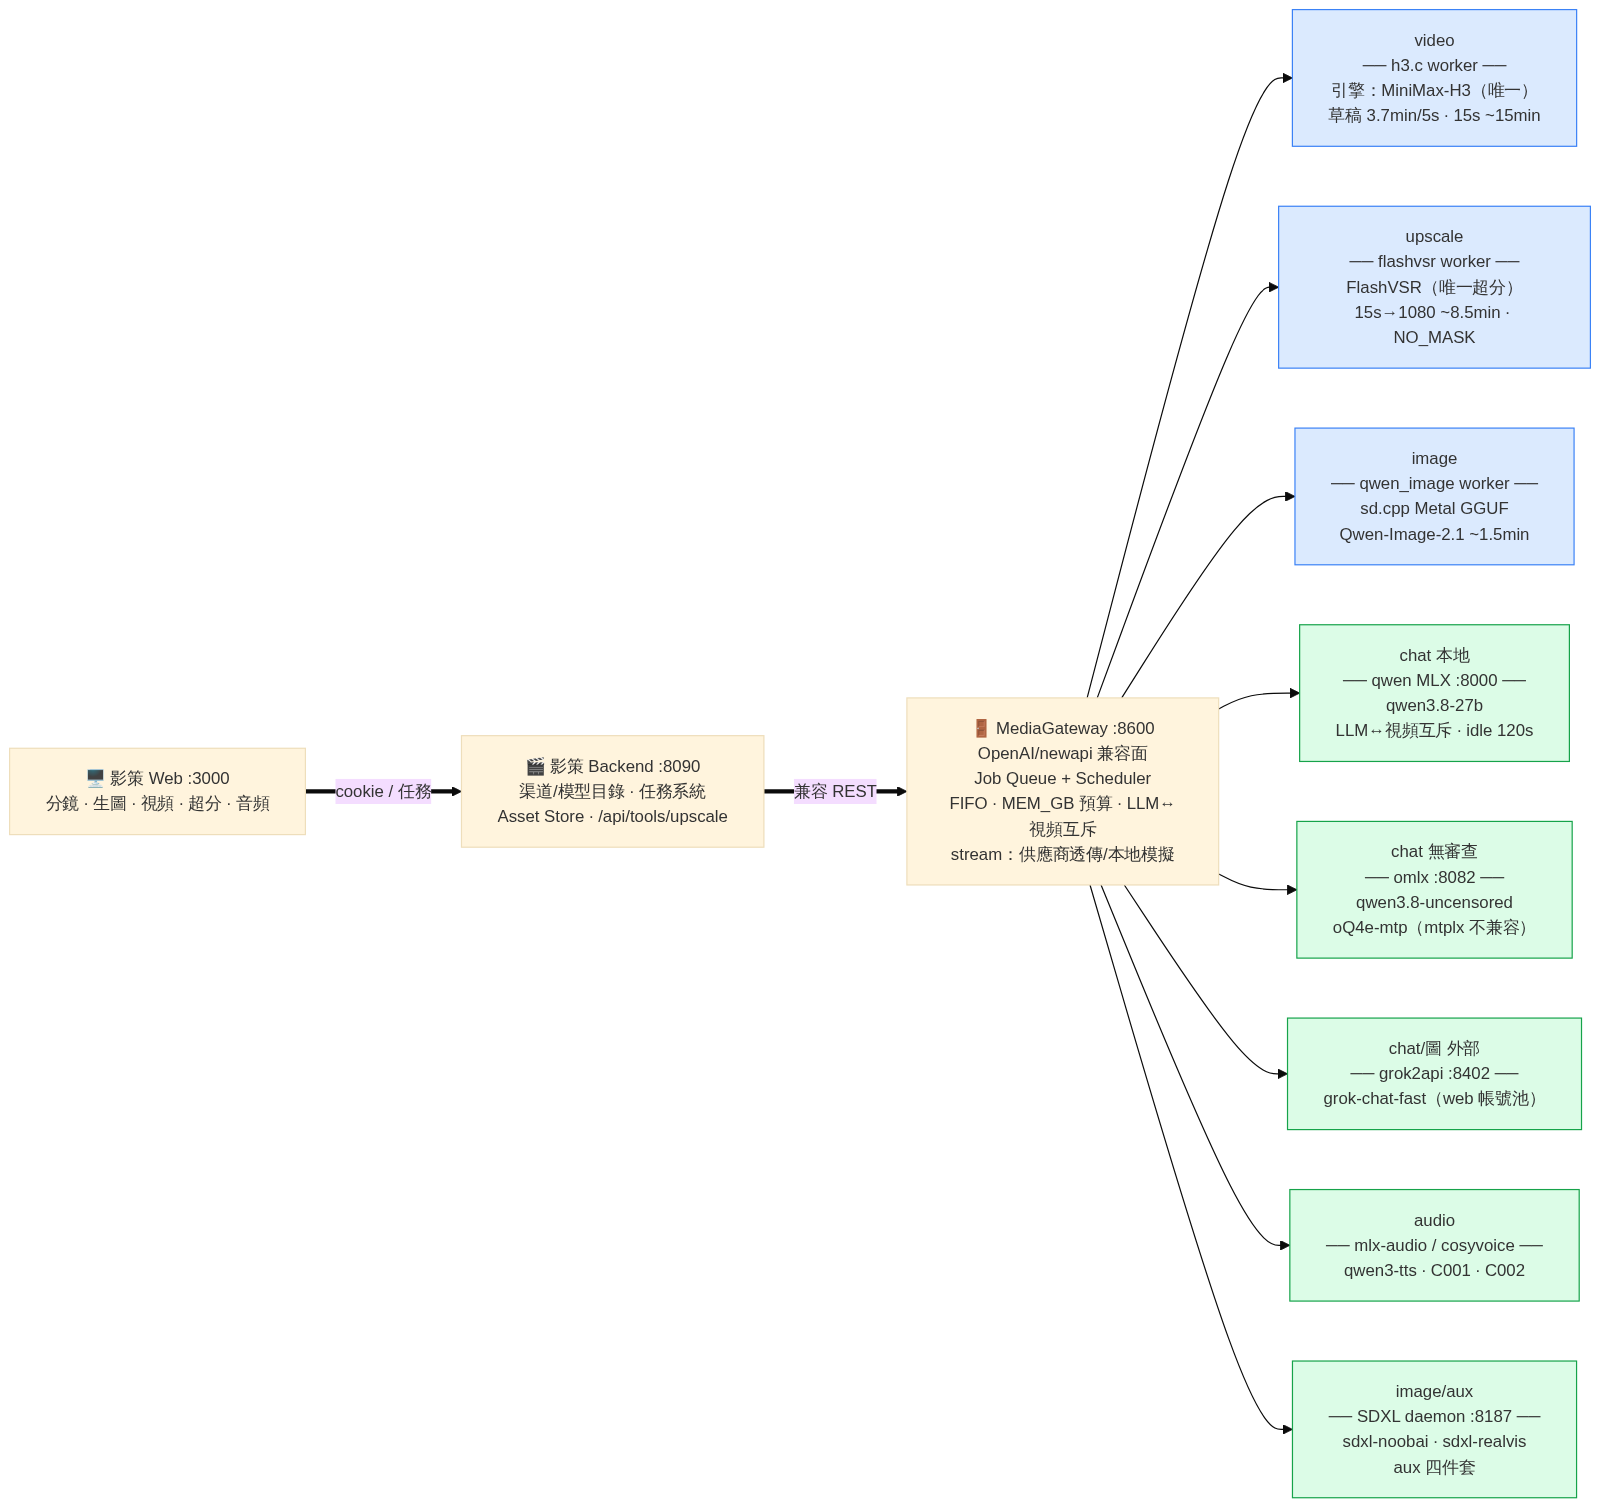
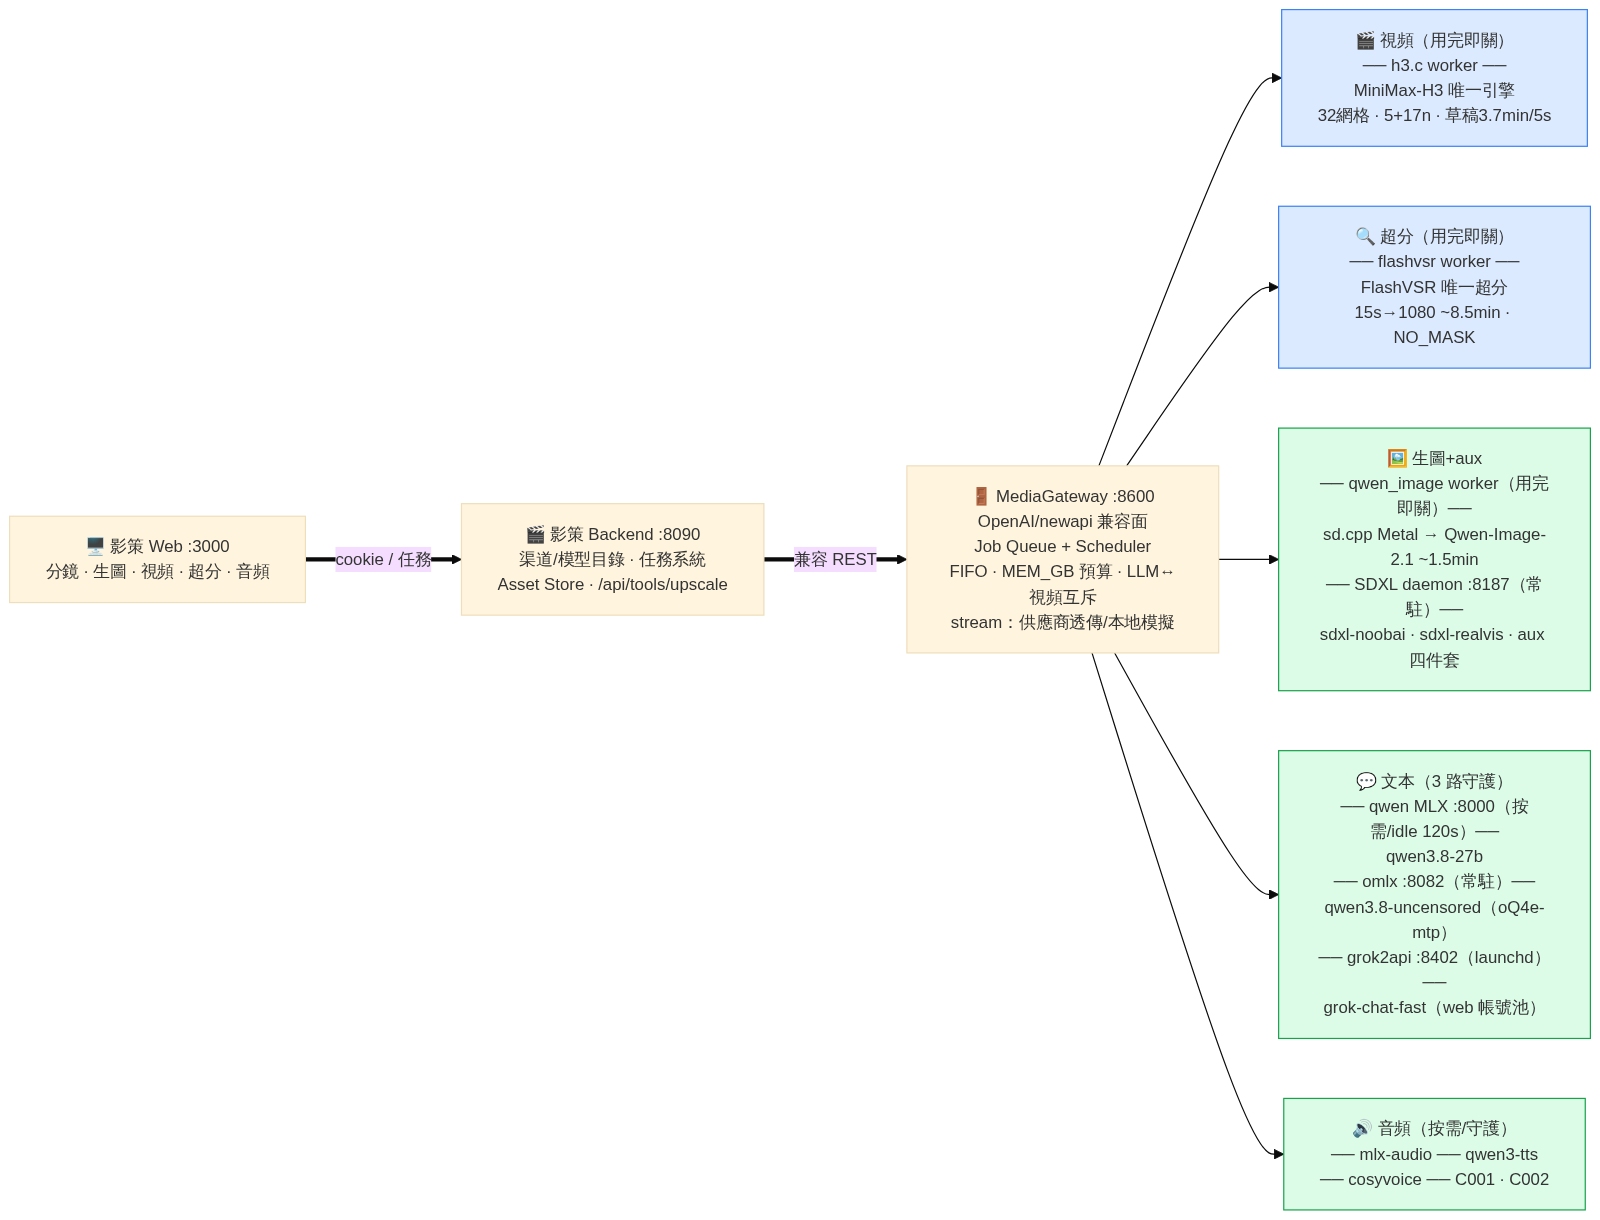
docs: 架構圖按能力域合併（視頻/超分/生圖+aux/文本3路/音頻）

Changed region(s): [[0.0, 0.0, 1.0, 0.9967], [0.7188, 0.7164, 0.75, 0.7475]]

diff --git a/docs/architecture.md b/docs/architecture.md
@@ -1,7 +1,7 @@
 # 影策系統架構（2026-09-28）
 
-> 按 Worker 分流：畫布 → 影策 → Gateway（兼容面 → Queue）→ 7 個 Worker → 各自的引擎/模型。
-> qwen3.6-27b 已刪除；iris-image 已停用（被 qwen-image 頂替）；chatgpt2api 停用待帳號。
+> 按功能合併：畫布 → 影策 → Gateway → 5 大能力域，每域列舉 worker/守護與模型。
+> 已棄用：qwen3.6-27b（刪除）、iris-image（停用）、chatgpt2api（停用待帳號）、SeedVR2/LTX（刪除）。
 
 ```mermaid
 %%{init:{"theme":"base","themeVariables":{"fontSize":"14px"}}}%%
@@ -10,24 +10,23 @@ flowchart LR
     Y["🎬 影策 Backend :8090<br/>渠道/模型目錄 · 任務系統<br/>Asset Store · /api/tools/upscale"]
     GW["🚪 MediaGateway :8600<br/>OpenAI/newapi 兼容面<br/>Job Queue + Scheduler<br/>FIFO · MEM_GB 預算 · LLM↔視頻互斥<br/>stream：供應商透傳/本地模擬"]
 
-    V["video<br/>── h3.c worker ──<br/>引擎：MiniMax-H3（唯一）<br/>草稿 3.7min/5s · 15s ~15min"]
-    U["upscale<br/>── flashvsr worker ──<br/>FlashVSR（唯一超分）<br/>15s→1080 ~8.5min · NO_MASK"]
-    I["image<br/>── qwen_image worker ──<br/>sd.cpp Metal GGUF<br/>Qwen-Image-2.1 ~1.5min"]
-    C["chat 本地<br/>── qwen MLX :8000 ──<br/>qwen3.8-27b<br/>LLM↔視頻互斥 · idle 120s"]
-    CU["chat 無審查<br/>── omlx :8082 ──<br/>qwen3.8-uncensored<br/>oQ4e-mtp（mtplx 不兼容）"]
-    GK["chat/圖 外部<br/>── grok2api :8402 ──<br/>grok-chat-fast（web 帳號池）"]
-    A["audio<br/>── mlx-audio / cosyvoice ──<br/>qwen3-tts · C001 · C002"]
-    X["image/aux<br/>── SDXL daemon :8187 ──<br/>sdxl-noobai · sdxl-realvis<br/>aux 四件套"]
+    VIDEO["🎬 視頻（用完即關）<br/>── h3.c worker ──<br/>MiniMax-H3 唯一引擎<br/>32網格 · 5+17n · 草稿3.7min/5s"]
+    UP["🔍 超分（用完即關）<br/>── flashvsr worker ──<br/>FlashVSR 唯一超分<br/>15s→1080 ~8.5min · NO_MASK"]
+    IMG["🖼 生圖+aux<br/>── qwen_image worker（用完即關）──<br/>sd.cpp Metal → Qwen-Image-2.1 ~1.5min<br/>── SDXL daemon :8187（常駐）──<br/>sdxl-noobai · sdxl-realvis · aux 四件套"]
+    TXT["💬 文本（3 路守護）<br/>── qwen MLX :8000（按需/idle 120s）──<br/>qwen3.8-27b<br/>── omlx :8082（常駐）──<br/>qwen3.8-uncensored（oQ4e-mtp）<br/>── grok2api :8402（launchd）──<br/>grok-chat-fast（web 帳號池）"]
+    AUD["🔊 音頻（按需/守護）<br/>── mlx-audio ── qwen3-tts<br/>── cosyvoice ── C001 · C002"]
 
     classDef once fill:#dbeafe,stroke:#3b82f6
     classDef daemon fill:#dcfce7,stroke:#16a34a
-    class V,U,I once
-    class C,CU,GK,A,X daemon
+    class VIDEO,UP once
+    class IMG,TXT,AUD daemon
 
     UI ==>|"cookie / 任務"| Y ==>|"兼容 REST"| GW
-    GW --> V & U & I & C & CU & GK & A & X
+    GW --> VIDEO & UP & IMG & TXT & AUD
 ```
 
-**常駐守護運維**：omlx（run-aeon.sh）/ SDXL daemon 無 launchd——重啟機器後手動拉起；
-grok2api 有 launchd；qwen MLX :8000 由 Gateway llm.py 按需拉起。
-**已棄用**：qwen3.6-27b（刪除）、iris-image（enabled=0，重下 flux-klein-9b 可恢復）、chatgpt2api（待帳號）、SeedVR2/LTX（已刪）。
+**分流明細**：/v1/videos→h3.c｜/v1/upscale→FlashVSR｜/v1/images qwen-image*→sd.cpp、
+sdxl*→SDXL daemon｜/v1/chat qwen3.8-27b→MLX、qwen3.8-uncensored→omlx（名稱重寫）、grok*→grok2api｜
+/v1/audio qwen3-tts→mlx-audio、C001/C002→cosyvoice
+
+**已棄用**：iris-image（enabled=0，重下 flux-klein-9b 可恢復）、qwen3.6-27b、chatgpt2api（待帳號）、SeedVR2/LTX
